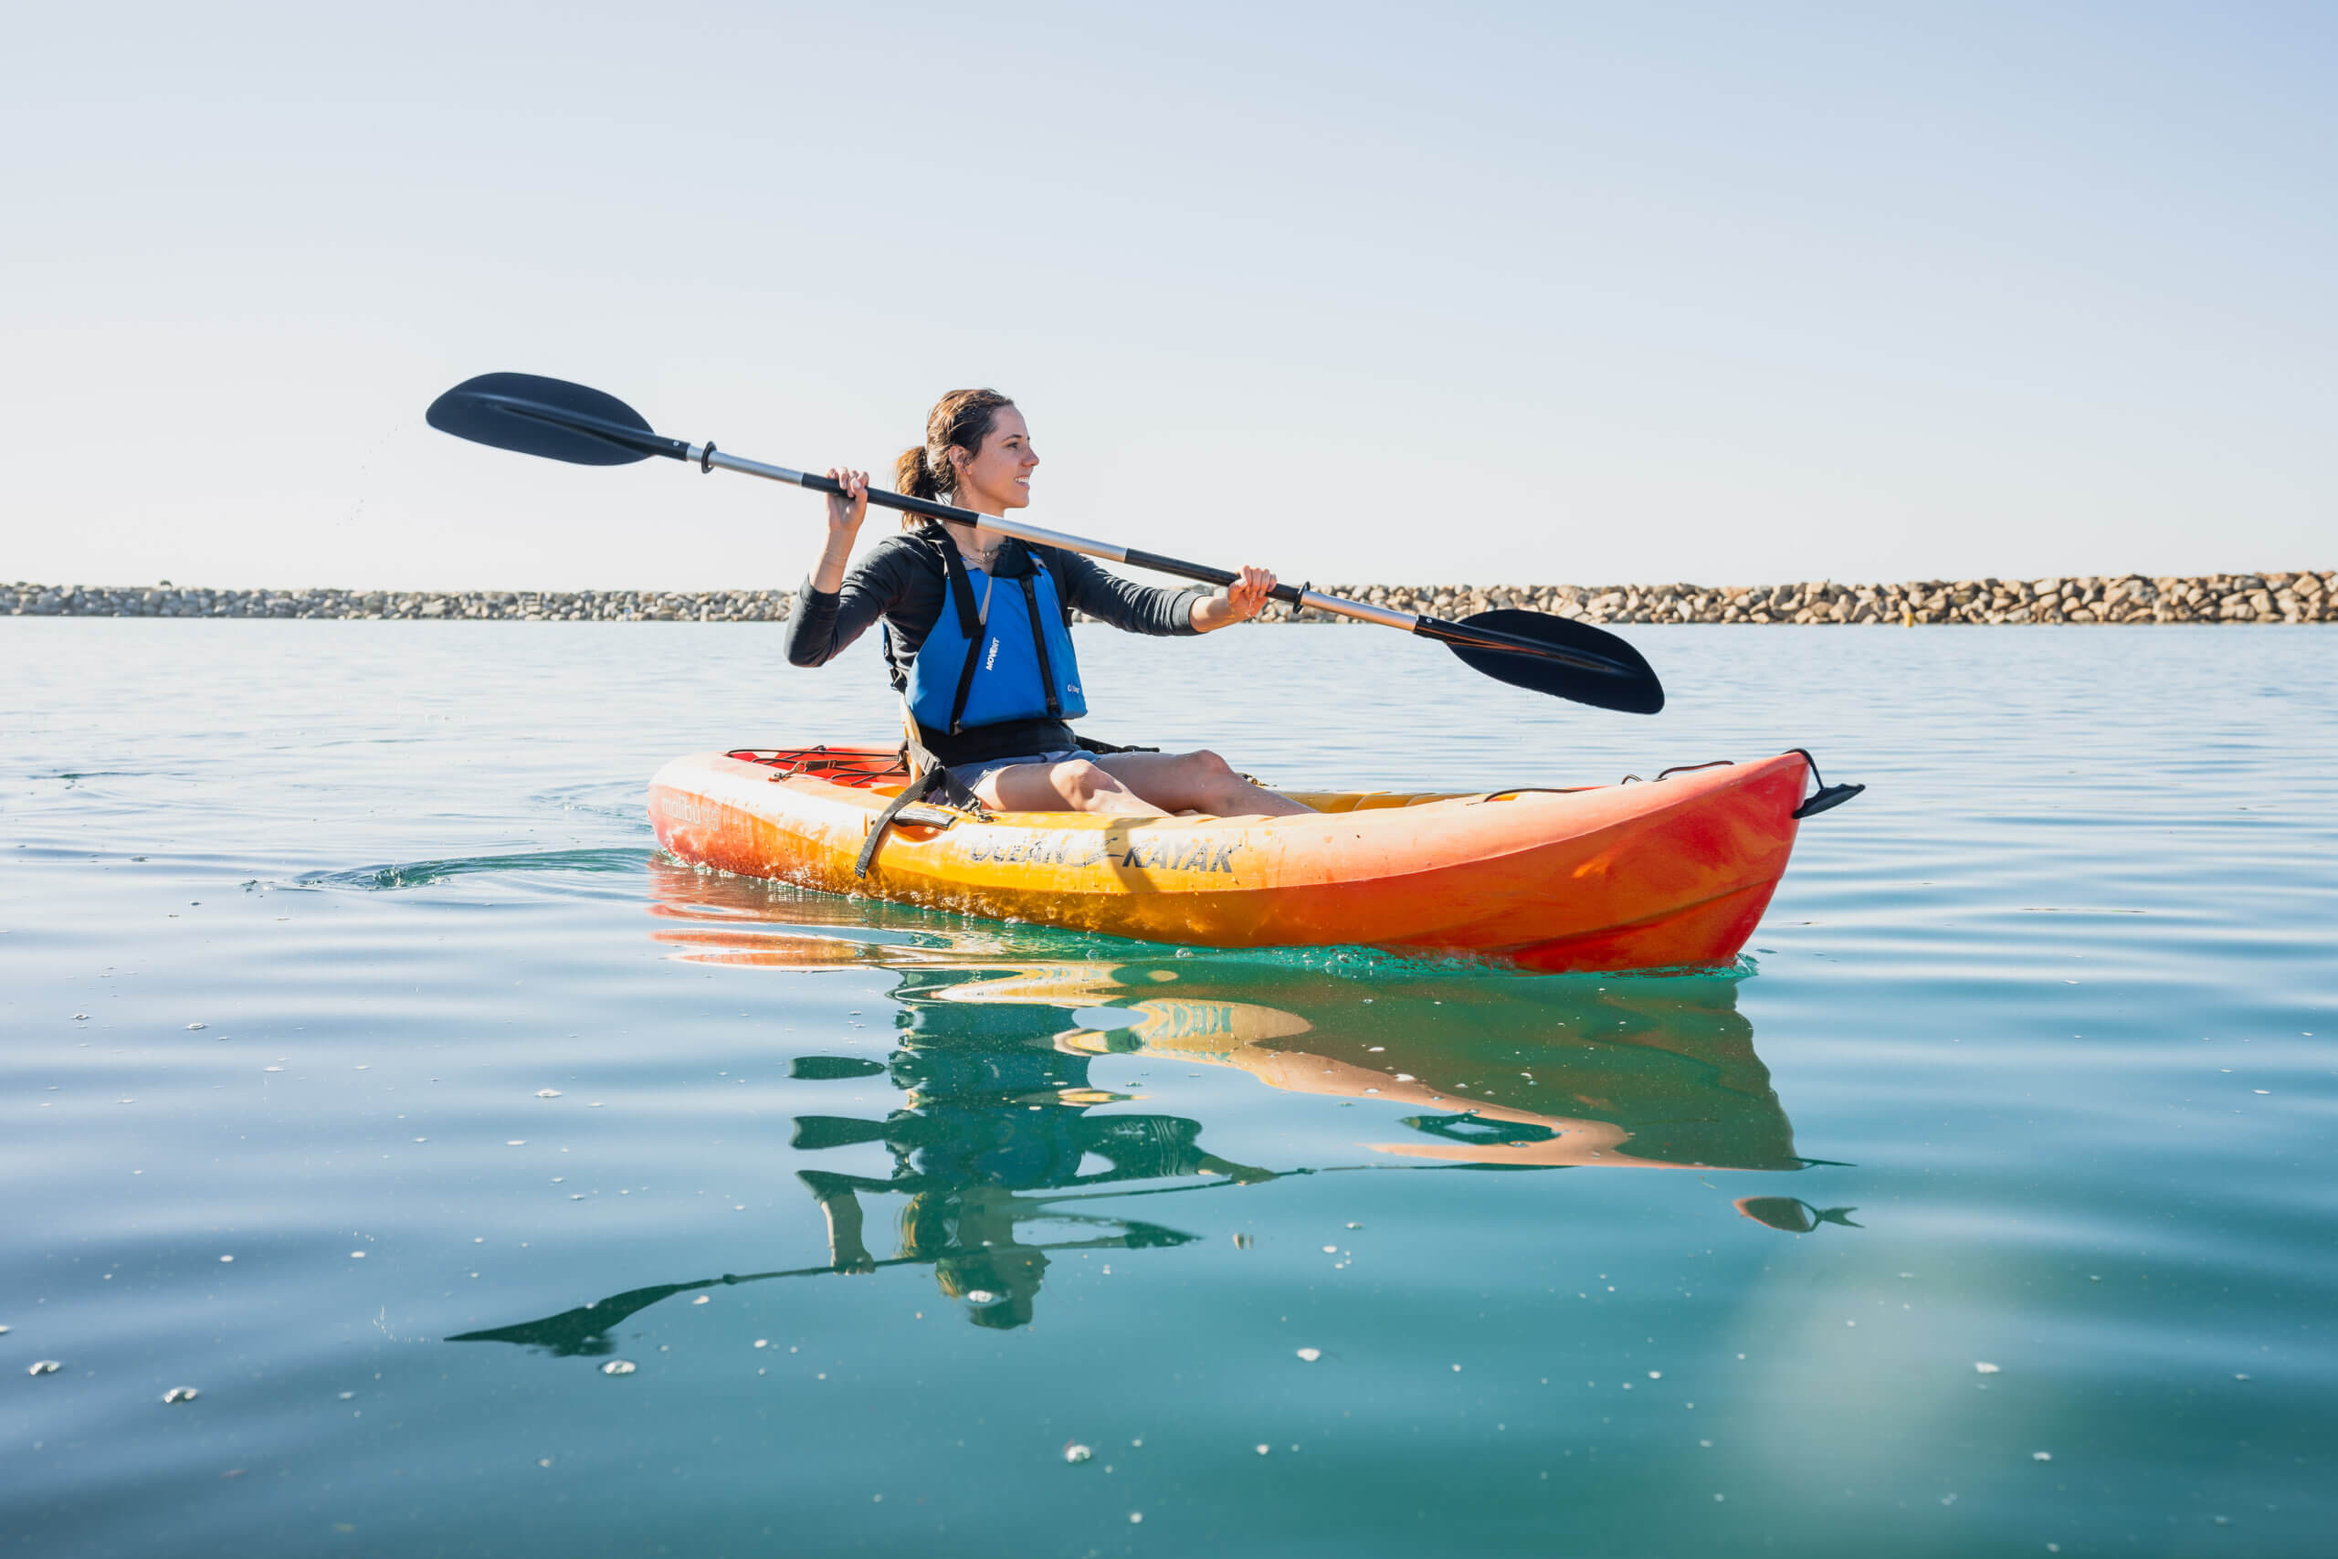
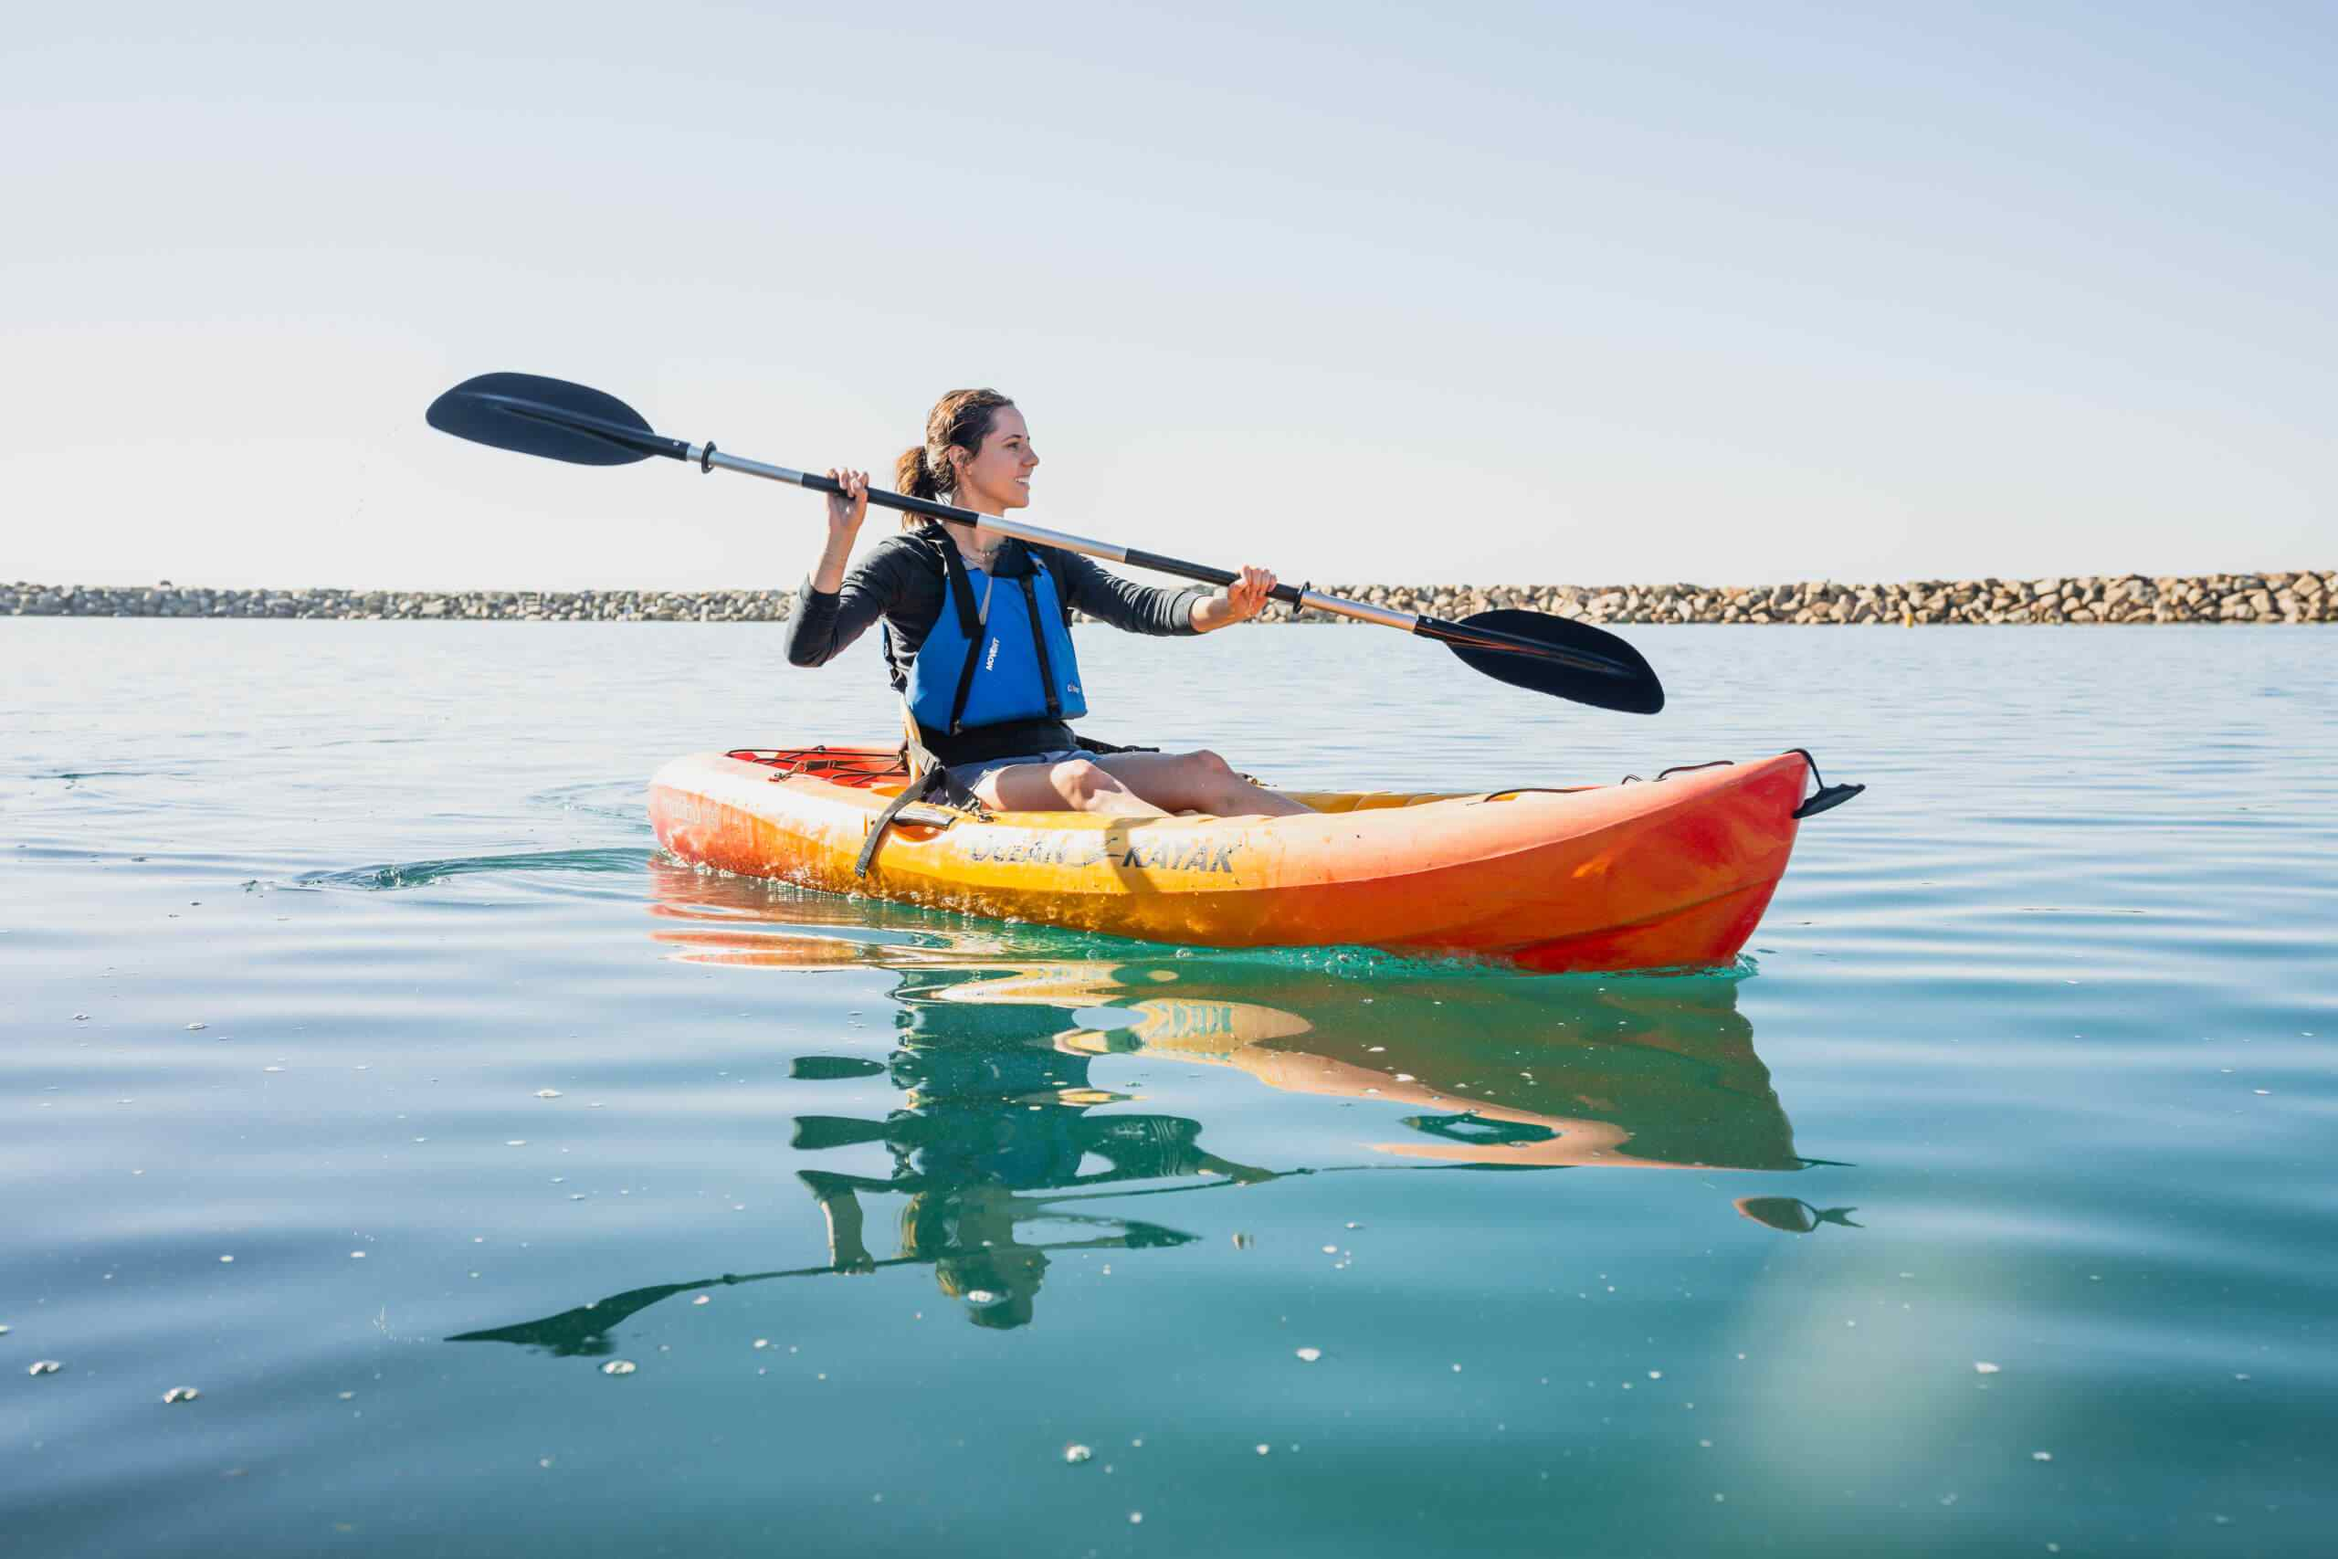
optimized images

Changed region(s): [[0.3125, 0.4657, 0.4375, 0.5899], [0.375, 0.5899, 0.4375, 0.621], [0.5625, 0.5899, 0.5938, 0.621]]

diff --git a/wwr/about.html b/wwr/about.html
@@ -58,7 +58,7 @@
             <h2>Adventure Awaits You!</h2>
             <div class="adventure-grid">
                 <figure>
-                    <img src="images/rock-climbing.jpeg" alt="Rock Climbing" />
+                    <img src="images/rock-climbing.jpg" alt="Rock Climbing" />
                     <figcaption>Rock Climbing</figcaption>
                 </figure>
                 <figure>
